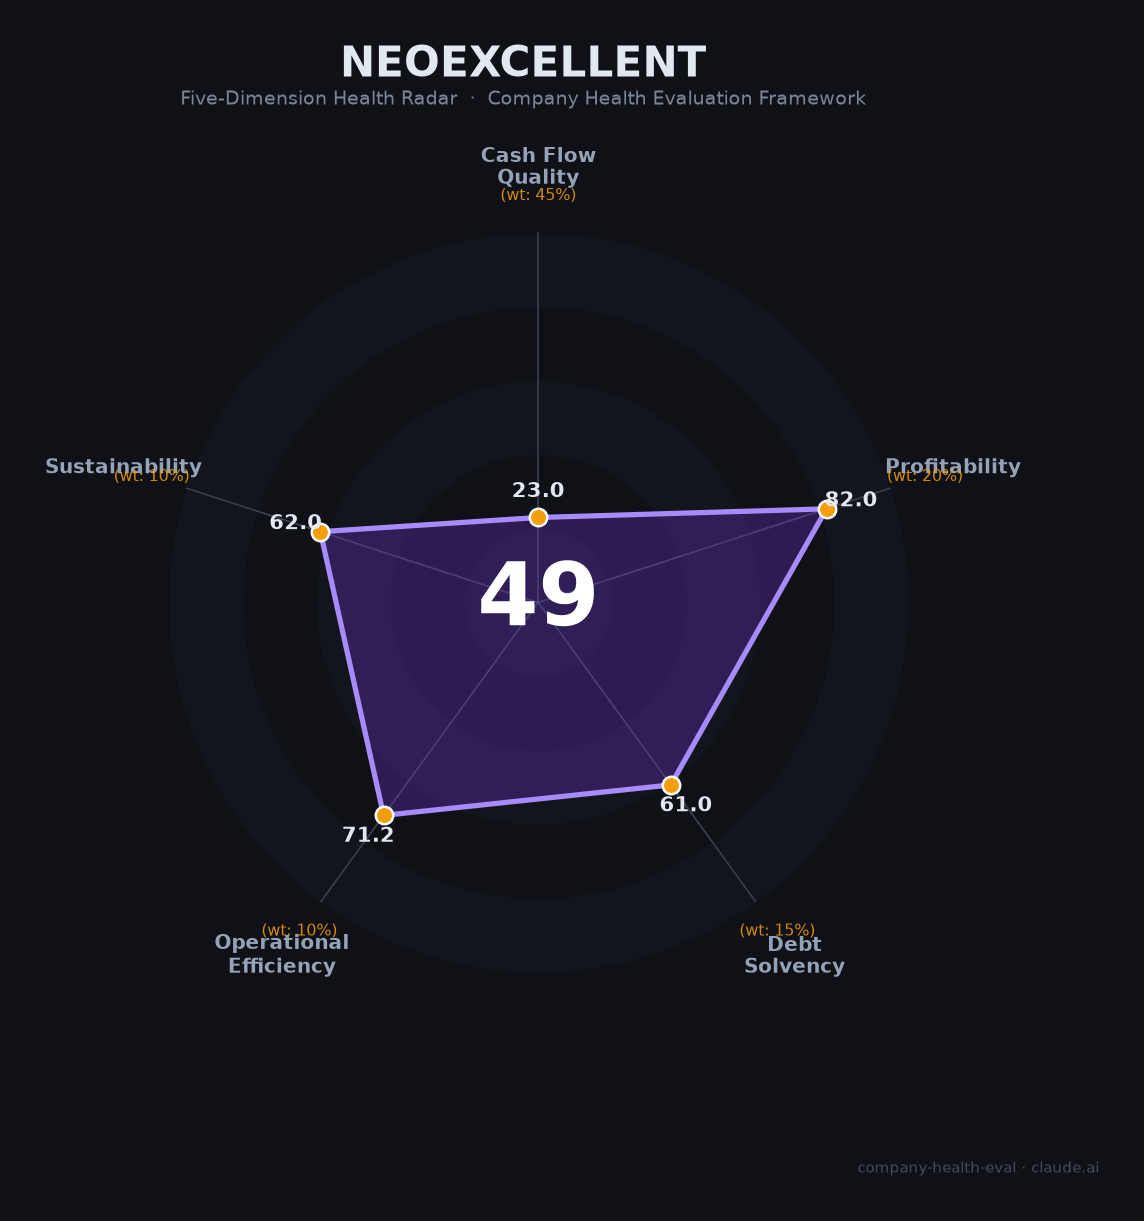
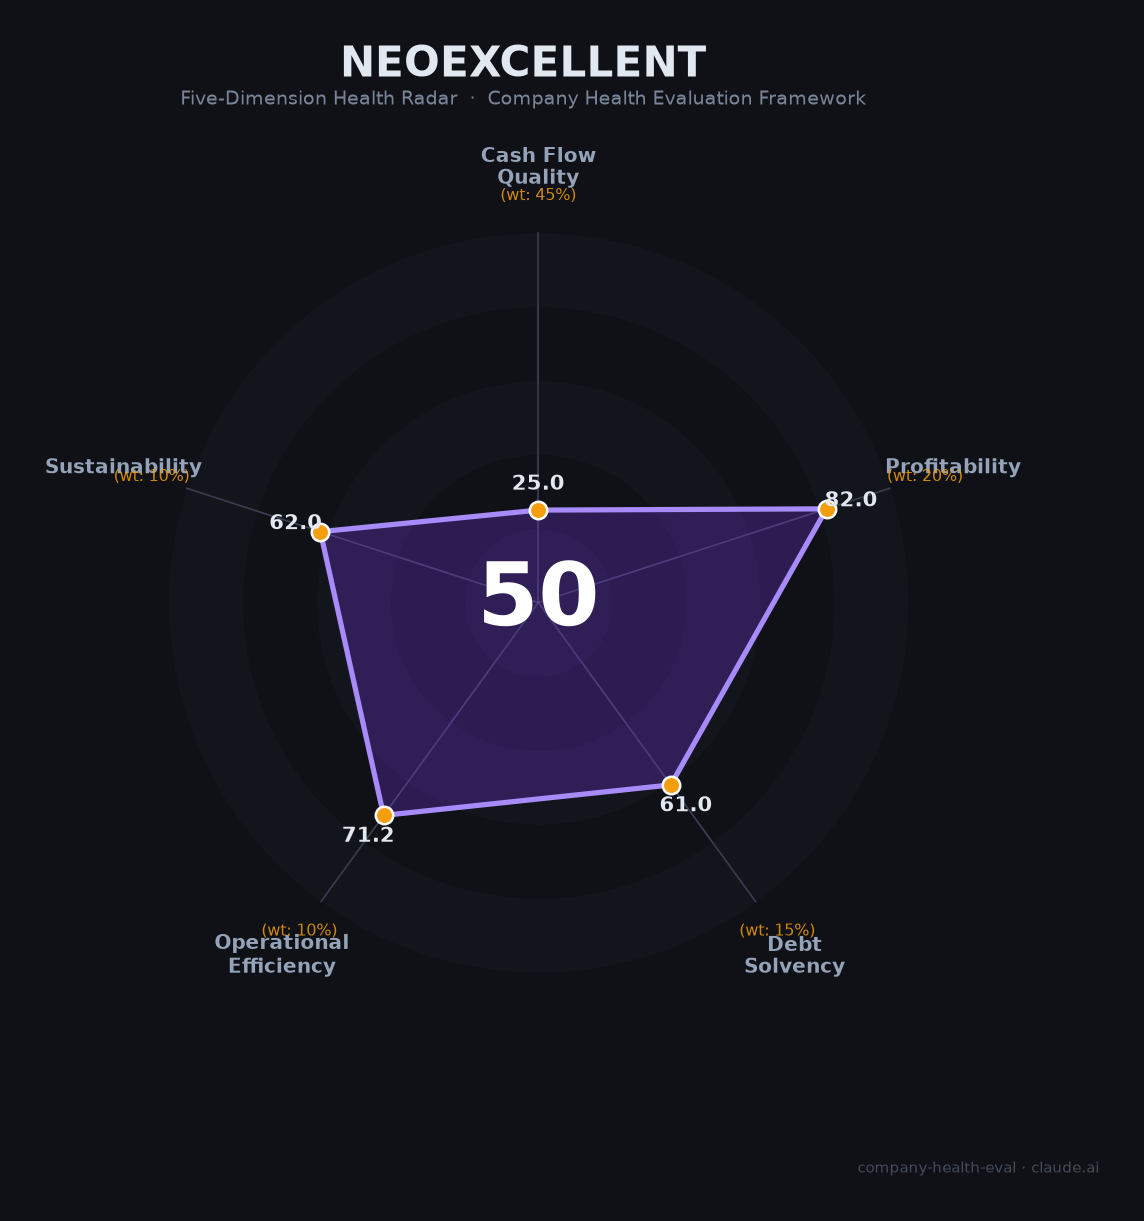
fix: remove receivable_turnover double-counting from cash flow dimension
receivable_turnover was scored in both cash_flow (45% weight) and
operations (10% weight), giving it 55% effective weight. Since
cf_to_ni_ratio already captures cash conversion quality (which
deteriorates primarily via slow receivables), the duplicate is
unnecessary and violates dimension independence.

- score.py: cash_flow now 4 indicators (25% each) instead of 5
- ALGORITHM.md: removed section 6.3 (double-counting justification)
- ALL 18 companies rescored; radar charts regenerated
- companies.json and index.md updated with new scores

Notable shifts: iAUTO 82→85 (now Excellent), 科大讯飞 61→66,
迈富时 57→61, 汇纳科技 48→52, 云从科技 37→34

Changed region(s): [[0.3059, 0.3735, 0.6731, 0.4357], [0.3977, 0.4668, 0.5201, 0.5291]]

diff --git a/.claude/skills/company-health-eval/scripts/score.py b/.claude/skills/company-health-eval/scripts/score.py
@@ -29,9 +29,8 @@ LEVEL_RD = {"excellent": 95, "good": 70, "average": 50, "alert": 15}
 # -- Dimension scoring functions ------------------------------------
 
 def score_cash_flow(d: dict) -> float:
-    """5 indicators × 20% each. All use 3-tier mapping."""
-    indicators = ["operating_cf", "cash_runway", "debt_level",
-                  "receivable_turnover", "cf_to_ni_ratio"]
+    """4 indicators × 25% each. receivable_turnover lives in operations only."""
+    indicators = ["operating_cf", "cash_runway", "debt_level", "cf_to_ni_ratio"]
     return _average(d, indicators, LEVEL_3)
 
 

diff --git a/company/index.md b/company/index.md
@@ -10,23 +10,22 @@
 |---|------|------|----------|------|------|-----------|
 | 1 | TapTap | 2400.HK | 互动娱乐 | 88 | 🟢 优秀 | 零负债高现金，游戏+社区双轮驱动 |
 | 2 | 欧税通 | — | 企业服务 | 87 | 🟢 优秀 | 跨境合规SaaS龙头，财务不透明 |
-| 3 | 汉高 | HEN3.DE | 化工 | 84 | 🟡 中等偏上 | 现金流极稳、零净债务的百年德企 |
-| 4 | 字节跳动 | — | 互联网平台 | 84 | 🟡 中等偏上 | 全球最大独角兽，all in AI军备竞赛 |
-| 5 | 商泰汽车-iAUTO | — | 汽车科技 | 82 | 🟡 中等偏上 | 小而稳的车载软件供应商，零负债 |
-| 6 | 叠纸游戏 | — | 互动娱乐 | 79 | 🟡 中等偏上 | 女性向游戏霸主，单产品依赖是最大风险 |
+| 3 | 商泰汽车-iAUTO | — | 汽车科技 | 85 | 🟢 优秀 | 小而稳的车载软件供应商，零负债 |
+| 4 | 汉高 | HEN3.DE | 化工 | 84 | 🟡 中等偏上 | 现金流极稳、零净债务的百年德企 |
+| 5 | 字节跳动 | — | 互联网平台 | 84 | 🟡 中等偏上 | 全球最大独角兽，all in AI军备竞赛 |
+| 6 | 叠纸游戏 | — | 互动娱乐 | 78 | 🟡 中等偏上 | 女性向游戏霸主，单产品依赖是最大风险 |
 | 7 | 美团 | 3690.HK | 互联网平台 | 76 | 🟡 中等偏上 | 本地生活霸主，外卖大战致短期承压 |
-| 8 | 月之暗面 | — | 人工智能 | 68 | 🟠 中等 | ARR 60天翻倍至$2亿，零负债百亿现金，芯片+数据安全双高悬 |
+| 8 | 科大讯飞 | 002230.SZ | 人工智能 | 66 | 🟠 中等 | AI国家队级平台，扣非净利率不足1% |
 | 9 | DeepSeek | — | 人工智能 | 65 | 🟠 中等 | 全球人均效率最高的AI实验室，商业模式待验证 |
 | 10 | MiniMax | 0100.HK | 人工智能 | 63 | 🟠 中等 | 大模型第一股，ARR 60天翻倍至$3亿 |
 | 11 | 阶跃星辰 | — | 人工智能 | 61 | 🟠 中等 | Agent基础设施赛道独特，营收5亿PS 140x |
-| 12 | 科大讯飞 | 002230.SZ | 人工智能 | 61 | 🟠 中等 | AI国家队级平台，扣非净利率不足1% |
-| 13 | 迈富时 | 02556.HK | 企业服务 | 57 | 🟠 中等 | 营销SaaS龙头，精准营销拖累利润 |
-| 14 | 商汤科技 | 0020.HK | 人工智能 | 55 | 🟠 中等 | AI视觉领军者，七年亏损563亿 |
-| 15 | 智谱AI | 02513.HK | 人工智能 | 51 | 🔴 中等偏下 | GLM-5.1编程全球SOTA，年亏47亿 |
-| 16 | 卓越睿新 | 2687.HK | 教育科技 | 49 | 🔴 中等偏下 | 好赛道好产品，坏现金流 |
-| 17 | 汇纳科技 | 300609.SZ | 人工智能 | 48 | 🔴 中等偏下 | 连续4年亏损，创始人清仓，应收账款濒危 |
-| 18 | 上海开普勒机器人 | — | 机器人 | 46 | 🔴 中等偏下 | 营收433万亏损6694万，估值暴跌68%被收购 |
-| 19 | 云从科技 | 688327.SH | 人工智能 | 37 | ⚫ 高风险 | AI四小龙光环褪色，研发断臂求生 |
+| 12 | 迈富时 | 02556.HK | 企业服务 | 61 | 🟠 中等 | 营销SaaS龙头，精准营销拖累利润 |
+| 13 | 商汤科技 | 0020.HK | 人工智能 | 55 | 🟠 中等 | AI视觉领军者，七年亏损563亿 |
+| 14 | 智谱AI | 02513.HK | 人工智能 | 54 | 🔴 中等偏下 | GLM-5.1编程全球SOTA，年亏47亿 |
+| 15 | 汇纳科技 | 300609.SZ | 人工智能 | 52 | 🔴 中等偏下 | 连续4年亏损，创始人清仓，应收账款濒危 |
+| 16 | 卓越睿新 | 2687.HK | 教育科技 | 50 | 🔴 中等偏下 | 好赛道好产品，坏现金流 |
+| 17 | 上海开普勒机器人 | — | 机器人 | 44 | 🔴 中等偏下 | 营收433万亏损6694万，估值暴跌68%被收购 |
+| 18 | 云从科技 | 688327.SH | 人工智能 | 34 | ⚫ 高风险 | AI四小龙光环褪色，研发断臂求生 |
 
 ---
 
@@ -38,30 +37,29 @@
 
 | 公司 | 代码 | 得分 | 员工 | 营收 | 关键指标 |
 |------|------|------|------|------|----------|
-| [DeepSeek](人工智能/大模型/DeepSeek/) | — | 🟠 65 | ~317 | 估算¥40-50亿（2025） | 317人V4纯国产万亿参数 · 首轮融资500亿 · API定价为OpenAI的1/30 |
+| [DeepSeek](人工智能/大模型/DeepSeek/) | — | 🟠 65 | ~317 | 估算¥40-50亿（2025） | 317人V4纯国产万亿参数 · 首轮融资500亿 |
 | [MiniMax](人工智能/大模型/MiniMax/) | 0100.HK | 🟠 63 | 428 | $0.79亿（2025） | ARR $3亿（60天翻倍）· 海螺AI全球3亿用户 |
-| [月之暗面](人工智能/大模型/月之暗面/) | — | 🟠 68 | ~300 | $2亿+ ARR（2026.4） | ARR 60天翻倍 · 零负债百亿现金 · Agent集群300子Agent · 海外收入超国内 |
 | [阶跃星辰](人工智能/大模型/阶跃星辰/) | — | 🟠 61 | ~400 | ~¥5亿（2025） | Step 3.7 Flash Agent速度全球第一 · 手机装机4200万台 |
-| [智谱AI](人工智能/大模型/智谱AI/) | 02513.HK | 🔴 51 | 883 | ¥7.24亿（2025） | GLM-5.1编程全球SOTA · API涨价83%调用量反增400% · 年亏47亿 |
+| [智谱AI](人工智能/大模型/智谱AI/) | 02513.HK | 🔴 54 | 883 | ¥7.24亿（2025） | GLM-5.1编程全球SOTA · 年亏47亿 |
 
 #### 计算机视觉
 
 | 公司 | 代码 | 得分 | 员工 | 营收 | 关键指标 |
 |------|------|------|------|------|----------|
 | [商汤科技](人工智能/计算机视觉/商汤科技/) | 0020.HK | 🟠 55 | 2,472 | ¥50亿（2025） | OCF-3亿收窄92% · 现金109亿 · 美国三重制裁 |
-| [云从科技](人工智能/计算机视觉/云从科技/) | 688327.SH | ⚫ 37 | ~800 | ¥3.7亿（2025） | OCF-0.81亿 · 累计亏损50亿+ · 研发人员裁减85% |
+| [云从科技](人工智能/计算机视觉/云从科技/) | 688327.SH | ⚫ 34 | ~800 | ¥3.7亿（2025） | OCF-0.81亿 · 累计亏损50亿+ · 研发人员裁减85% |
 
 #### AI平台
 
 | 公司 | 代码 | 得分 | 员工 | 营收 | 关键指标 |
 |------|------|------|------|------|----------|
-| [科大讯飞](人工智能/AI平台/科大讯飞/) | 002230.SZ | 🟠 61 | 16,818 | ¥271亿（2025） | 扣非净利率0.97% · 补贴占利润76% · 应收163亿 |
+| [科大讯飞](人工智能/AI平台/科大讯飞/) | 002230.SZ | 🟠 66 | 16,818 | ¥271亿（2025） | 扣非净利率0.97% · 补贴占利润76% · 应收163亿 |
 
 #### 商业大数据
 
 | 公司 | 代码 | 得分 | 员工 | 营收 | 关键指标 |
 |------|------|------|------|------|----------|
-| [汇纳科技](人工智能/商业大数据/汇纳科技/) | 300609.SZ | 🔴 48 | ~543 | ¥3.07亿（2025） | 连续4年亏损 · 应收周转579天 · 创始人清仓5.16亿 |
+| [汇纳科技](人工智能/商业大数据/汇纳科技/) | 300609.SZ | 🔴 52 | ~543 | ¥3.07亿（2025） | 连续4年亏损 · 应收周转579天 · 创始人清仓5.16亿 |
 
 ---
 
@@ -77,7 +75,7 @@
 
 | 公司 | 代码 | 得分 | 员工 | 营收 | 关键指标 |
 |------|------|------|------|------|----------|
-| [美团](互联网平台/本地生活/美团/) | 3690.HK | 🟡 77 | 10.9万 | ¥3,789亿（2025） | 2025由盈转亏-234亿 · 外卖大战 · 标普BBB+ |
+| [美团](互联网平台/本地生活/美团/) | 3690.HK | 🟡 76 | 10.9万 | ¥3,789亿（2025） | 2025由盈转亏-234亿 · 外卖大战 · 标普BBB+ |
 
 ---
 
@@ -93,7 +91,7 @@
 
 | 公司 | 代码 | 得分 | 员工 | 营收 | 关键指标 |
 |------|------|------|------|------|----------|
-| [迈富时](企业服务/营销SaaS/迈富时/) | 02556.HK | 🟠 57 | 1,737 | ¥28.2亿（2025） | 经营现金流-6.76亿 · 应收账款+301% · 精准营销毛利率5% |
+| [迈富时](企业服务/营销SaaS/迈富时/) | 02556.HK | 🟠 61 | 1,737 | ¥28.2亿（2025） | 经营现金流-6.76亿 · 应收账款+301% · 精准营销毛利率5% |
 
 ---
 
@@ -103,13 +101,13 @@
 
 | 公司 | 代码 | 得分 | 员工 | 营收 | 关键指标 |
 |------|------|------|------|------|----------|
-| [叠纸游戏](互动娱乐/游戏研发/叠纸游戏/) | — | 🟡 79 | 2,300+ | ~¥70亿（2024） | 融资仅$2,360万 · 《恋与深空》占78% · 管理权交接 |
+| [叠纸游戏](互动娱乐/游戏研发/叠纸游戏/) | — | 🟡 78 | 2,300+ | ~¥70亿（2024） | 融资仅$2,360万 · 《恋与深空》占78% |
 
 #### 游戏平台
 
 | 公司 | 代码 | 得分 | 员工 | 营收 | 关键指标 |
 |------|------|------|------|------|----------|
-| [TapTap](互动娱乐/游戏平台/TapTap/) | 2400.HK | 🟢 87 | 1,600 | ¥57.6亿（2025） | 现金37.7亿 · 零负债 · 毛利率73.8% |
+| [TapTap](互动娱乐/游戏平台/TapTap/) | 2400.HK | 🟢 88 | 1,600 | ¥57.6亿（2025） | 现金37.7亿 · 零负债 · 毛利率73.8% |
 
 ---
 
@@ -119,7 +117,7 @@
 
 | 公司 | 代码 | 得分 | 员工 | 营收 | 关键指标 |
 |------|------|------|------|------|----------|
-| [卓越睿新](教育科技/智慧教育/卓越睿新/) | 2687.HK | 🔴 49 | 2,728 | ¥9.69亿（2025） | 经营现金流-0.76亿 · 应收账款周转282天 · IPO前现金骤降70% |
+| [卓越睿新](教育科技/智慧教育/卓越睿新/) | 2687.HK | 🔴 50 | 2,728 | ¥9.69亿（2025） | 经营现金流-0.76亿 · 应收账款周转282天 |
 
 ---
 
@@ -129,7 +127,7 @@
 
 | 公司 | 代码 | 得分 | 员工 | 营收 | 关键指标 |
 |------|------|------|------|------|----------|
-| [商泰汽车-iAUTO](汽车科技/汽车软件/商泰汽车-iAUTO/) | — | 🟡 82 | 474 | ~¥3-5亿（估） | 累计出货4,000万台+ · 覆盖104国 · 零负债 · 稳定盈利 |
+| [商泰汽车-iAUTO](汽车科技/汽车软件/商泰汽车-iAUTO/) | — | 🟢 85 | 474 | ~¥3-5亿（估） | 累计出货4,000万台+ · 覆盖104国 · 零负债 |
 
 ---
 
@@ -139,7 +137,7 @@
 
 | 公司 | 代码 | 得分 | 员工 | 营收 | 关键指标 |
 |------|------|------|------|------|----------|
-| [汉高](化工/特种化学品/汉高/) | HEN3.DE | 🟡 84 | 47,150 | €205亿（FY2025） | D/E 0.18 · 零净债务 · OCF/NI 1.25x · 毛利率51.1% |
+| [汉高](化工/特种化学品/汉高/) | HEN3.DE | 🟡 84 | 47,150 | €205亿（FY2025） | D/E 0.18 · 零净债务 · OCF/NI 1.25x |
 
 ---
 
@@ -149,7 +147,7 @@
 
 | 公司 | 代码 | 得分 | 员工 | 营收 | 关键指标 |
 |------|------|------|------|------|----------|
-| [上海开普勒机器人](机器人/人形机器人/上海开普勒机器人/) | — | 🔴 46 | ~100+ | ¥434万（2025） | 净亏6,694万 · 估值一月跌68% · CEO离职 · 杭州柯林收购51% |
+| [上海开普勒机器人](机器人/人形机器人/上海开普勒机器人/) | — | 🔴 44 | ~100+ | ¥434万（2025） | 净亏6,694万 · 估值一月跌68% · 杭州柯林收购51% |
 
 ---
 
@@ -157,15 +155,15 @@
 
 | 维度 | 数据 |
 |------|------|
-| 覆盖公司 | 19 家 |
+| 覆盖公司 | 18 家 |
 | 已上市 | 11 家（港股7，A股3，德股1） |
-| 未上市 | 8 家（字节跳动、叠纸游戏、欧税通、商泰汽车、月之暗面、DeepSeek、阶跃星辰、开普勒机器人） |
-| 得分区间 | 37 – 88 |
-| 平均得分 | 65.3 |
-| 评分引擎 | `scripts/score.py`（标准化指标→分数映射） |
-| 🟢 优秀（85-100） | 2 家 |
-| 🟡 中等偏上（70-85） | 5 家 |
-| 🟠 中等（55-70） | 7 家 |
+| 未上市 | 7 家 |
+| 得分区间 | 34 – 88 |
+| 平均得分 | 65.9 |
+| 评分引擎 | `scripts/score.py` v1.1（移除应收双重计数） |
+| 🟢 优秀（85-100） | 3 家 |
+| 🟡 中等偏上（70-85） | 4 家 |
+| 🟠 中等（55-70） | 6 家 |
 | 🔴 中等偏下（40-55） | 4 家 |
 | ⚫ 高风险（<40） | 1 家 |
 
@@ -183,4 +181,4 @@
 
 ---
 
-*最后更新：2026-06-12 · 评分引擎：`scripts/score.py` · 报告文件均位于 [docs/examples/](../docs/examples/)*
+*最后更新：2026-06-12 · 评分引擎：`scripts/score.py` v1.1 · 报告文件均位于 [docs/examples/](../docs/examples/)*

diff --git a/.claude/skills/company-health-eval/ALGORITHM.md b/.claude/skills/company-health-eval/ALGORITHM.md
@@ -96,24 +96,25 @@ JSON 对象，包含 5 个维度，共 24 个指标（含 1 个加分项）：
 | 1 | 经营现金流净额 | `operating_cf` | 连续3年为正 | 时正时负 | 连续为负 |
 | 2 | 现金及等价物 | `cash_runway` | 覆盖12个月+运营 | 覆盖6-12个月 | 覆盖<6个月 |
 | 3 | 有息负债 | `debt_level` | 0或极低 | 可控 | 高杠杆 |
-| 4 | 应收周转天数 | `receivable_turnover` | <行业平均 | ≈行业平均 | >行业1.5倍 |
-| 5 | 净现比 | `cf_to_ni_ratio` | >1 | 0.5-1 | <0.5 |
+| 4 | 净现比 | `cf_to_ni_ratio` | >1 | 0.5-1 | <0.5 |
+
+> 应收周转天数（`receivable_turnover`）仅出现在运营效率维度。净现比已间接反映应收账款质量——利润无法转化为现金的首要原因就是回款恶化，无需在现金流维度重复计算。
 
 ### 3.2 计算公式
 
 ```
-score_cash_flow = mean(operating_cf, cash_runway, debt_level, receivable_turnover, cf_to_ni_ratio)
+score_cash_flow = mean(operating_cf, cash_runway, debt_level, cf_to_ni_ratio)
 ```
 
-5 个指标等权（各 20%），使用 `_average()` 辅助函数。缺失指标自动跳过，权重重新分配给剩余指标。
+4 个指标等权（各 25%）。
 
 ### 3.3 极端场景示例
 
 ```
-全部 health:          (90+90+90+90+90)/5 = 90.0
-全部 danger:          (15+15+15+15+15)/5 = 15.0
-3H+2W:                (90+90+90+55+55)/5 = 76.0
-2H+1W+2D:             (90+90+55+15+15)/5 = 53.0
+全部 health:          (90+90+90+90)/4 = 90.0
+全部 danger:          (15+15+15+15)/4 = 15.0
+2H+2W:                (90+90+55+55)/4 = 72.5
+2H+1W+1D:             (90+90+55+15)/4 = 62.5
 ```
 
 ---
@@ -216,9 +217,6 @@ score_operations = mean(receivable_turnover, customer_concentration, employee_tr
 
 4 个指标等权（各 25%）。
 
-### 6.3 注意事项
-
-`receivable_turnover` 同时出现在本维度和现金流维度中。这是有意为之——应收账款周转同时影响现金流质量（回款速度 → 现金充裕度）和运营效率（回款管理 → 运营能力），两个维度从不同角度评估，加权时会产生叠加效应（45% + 10% = 55% 的权重影响）。
 
 ---
 
